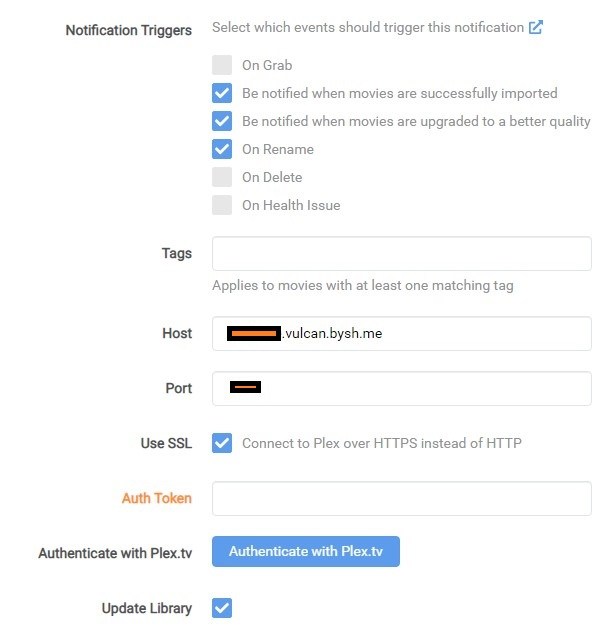
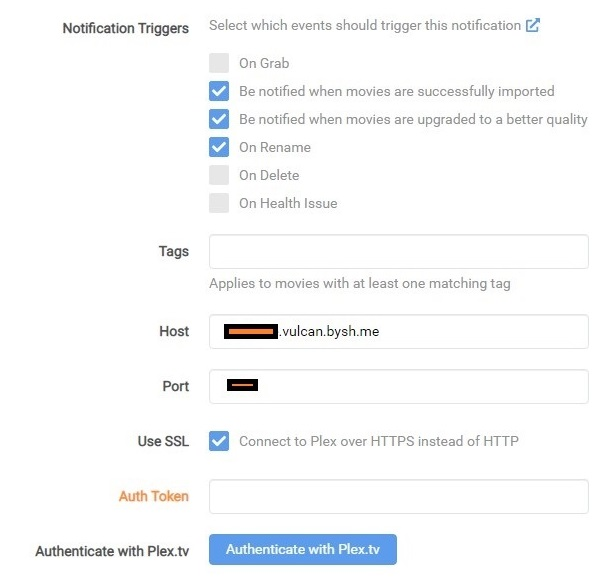
readme

diff --git a/readme.md b/readme.md
@@ -87,7 +87,7 @@ if [ -e $PID_FILE ]; then
     fi
 fi
 
-/sbin/start-stop-daemon -S --pidfile $PID_FILE --make-pidfile -u $USER -d $HOME -b -a /usr/local/bin/rclone -- mount <mountName>: ~/mnt/gdrive --allow-other --user-agent="$USER_AGENT" --timeout 1h --dir-cache-time 1000h --cache-info-age 1500h  --poll-interval 15s --vfs-read-chunk-size 32M --vfs-cache-mode full --vfs-cache-max-size 200G --vfs-cache-max-age 336h --uid $USER_ID --gid $GROUP_ID
+/sbin/start-stop-daemon -S --pidfile $PID_FILE --make-pidfile -u $USER -d $HOME -b -a /usr/local/bin/rclone -- mount <mountName>: ~/mnt/gdrive --allow-other --user-agent="$USER_AGENT" --timeout 1h --dir-cache-time 1000h --cache-info-age 1500h  --poll-interval 15s --vfs-read-chunk-size 32M --buffer-size 32M --vfs-read-ahead 256M --vfs-cache-mode full --vfs-cache-max-size 200G --vfs-cache-max-age 336h --uid $USER_ID --gid $GROUP_ID
 
 PID_FILE=$HOME/.config/mergerfs/mergerfs.pid
 if [ -e $PID_FILE ]; then
@@ -194,4 +194,4 @@ To cross check if both rclone and mergerfs is working, you can check from the me
 | Index | Topic                                                        |
 | ----- | ------------------------------------------------------------ |
 | 1.    | [Radarr 4K Instance](https://github.com/pranscript/plex_bytesized/tree/master/Extras/radarr4K.md) |
-| 3.    | [SubZero bundle for Subtitles (Bazarr Alternative)](https://github.com/pranscript/plex_bytesized/tree/master/Extras/subzero.md) |
+| 2.    | [SubZero bundle for Subtitles (Bazarr Alternative)](https://github.com/pranscript/plex_bytesized/tree/master/Extras/subzero.md) |

diff --git a/radarr/readme.md b/radarr/readme.md
@@ -100,7 +100,7 @@ Note: These steps are for Radarr V3. If you are still in Radarr V2, you can refe
 
 - For Plex port, click on the "+" icon to see the port to connect to. 
 
-- Use SSL, authenticate and check update library
+- Use SSL, authenticate and uncheck update library
 
 - Test the connection and save it.
 
